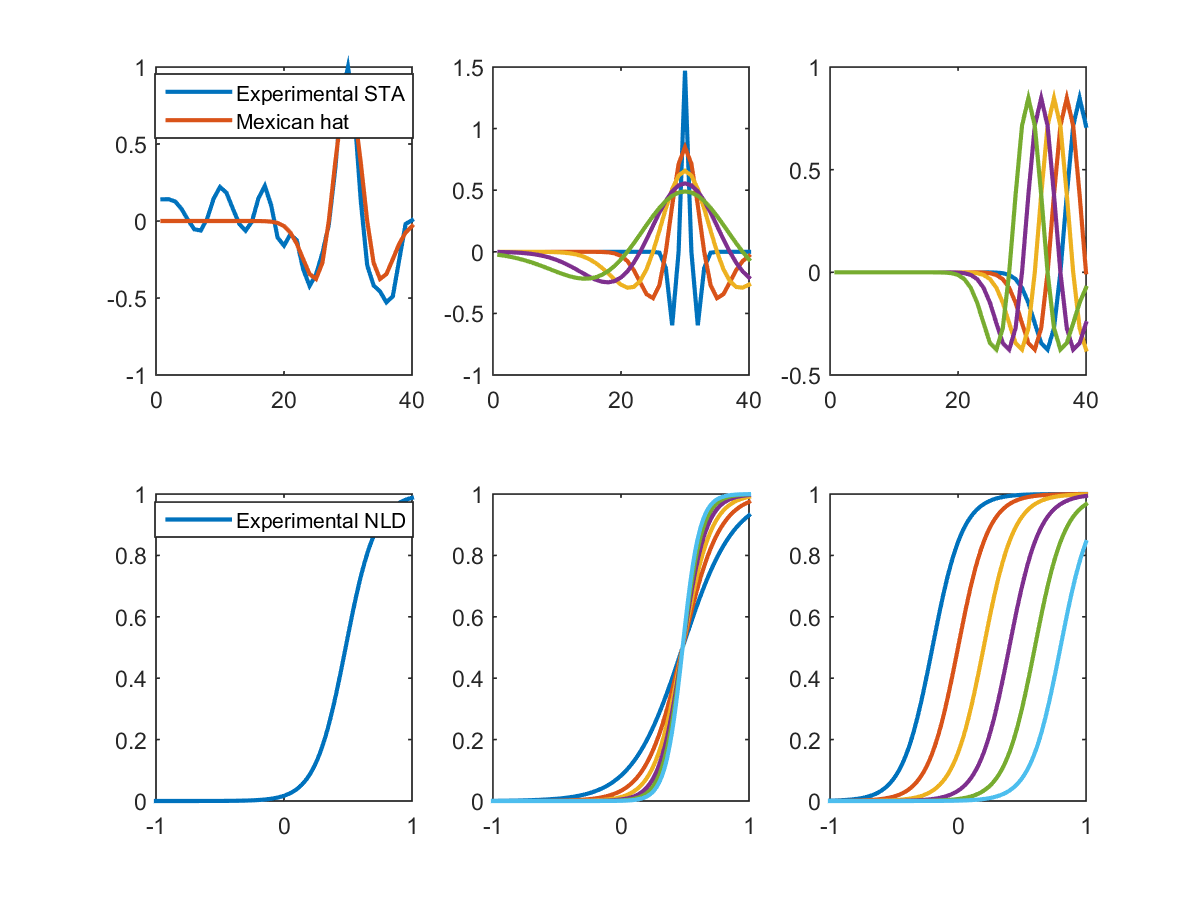
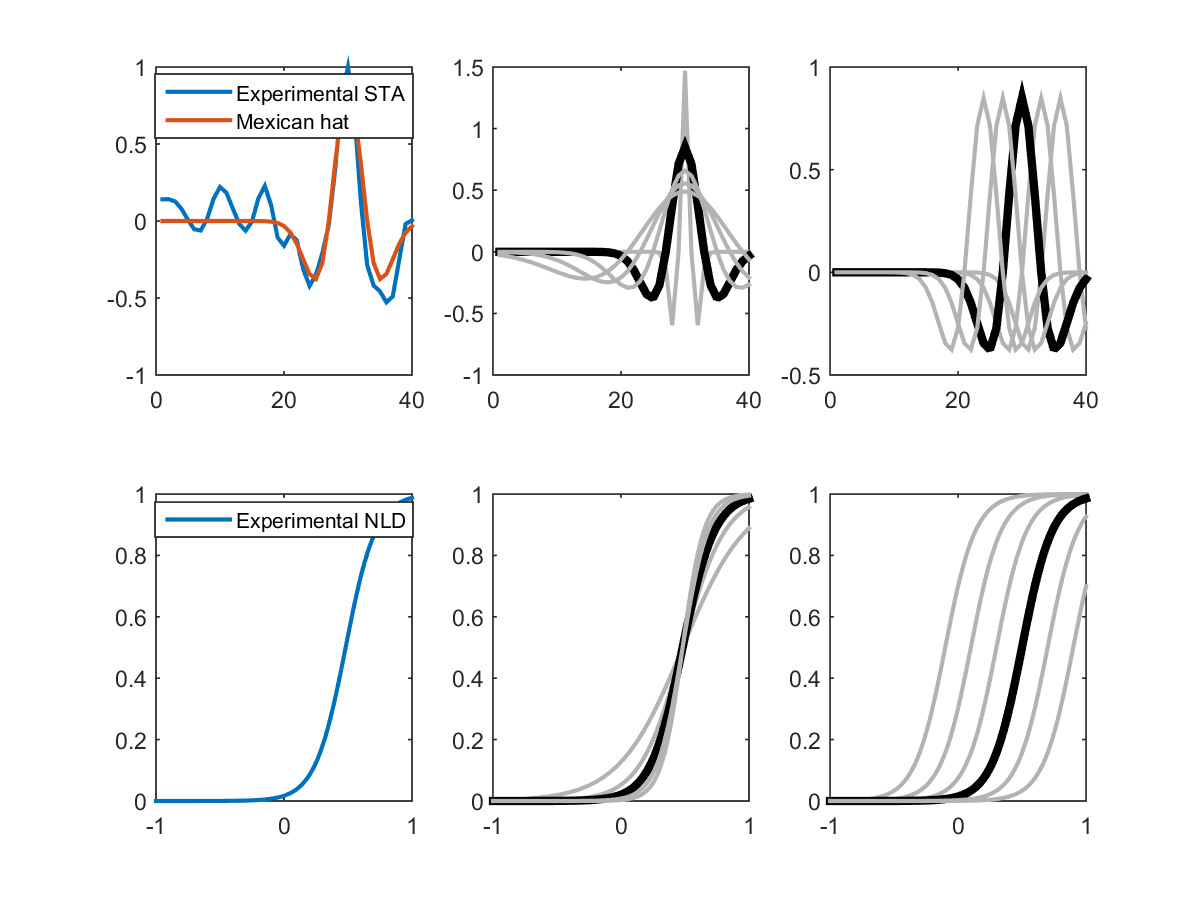
prepare weekend run & sensorLocSSPOC fix

diff --git a/scripts/run_Figure4_variableNLD.m b/scripts/run_Figure4_variableNLD.m
@@ -41,16 +41,21 @@ ind_SSPOCoff = find(bin_SSPOCoff);
 ind_SSPOCon = ind_SSPOCon(2:end);
 ind_SSPOCoff = ind_SSPOCoff(2:end);
 
+% old one 
+% par.NLDshiftList = [-0.2:0.2:0.8];
+% par.NLDsharpnessList = [5:2:15];
 
-par.NLDshiftList = [-0.2:0.2:0.8];
-par.NLDsharpnessList = [5:2:15];
-% n_plots = (length(par.NLDshiftList) + 1) *...
-%             (length(par.NLDsharpnessList) +1); 
+    % will be the new one
+        par.NLDshiftList = [-0.1:0.2:0.9];
+        par.NLDsharpnessList = [4:2:12];
+        
+        % just for now 
+        par.NLDshiftList = [-0.1:0.2:0.9];
+        par.NLDsharpnessList = [4:2:14];
 n_x = (length(par.NLDshiftList) + 1);
 n_y = (length(par.NLDsharpnessList) +1); 
 n_plots = n_x*n_y; 
 
-% col = {'-k','-r'};
 col = {ones(3,1)*0.5,'-r'};
 dotcol = {'.k','.r'}; 
 %% create subplot routine
@@ -60,13 +65,10 @@ mat_2 = mat_1(2:end,2:end);
 vec_3 = sort(mat_2(:));
 vec_v = mat_1(2:end,1);
 
-% color_vec = {'-r','-k'};
 fig2=figure('Position', [100, 100, 1000, 800]);
 for j = 1:length(vec_3)
     subplot(n_y,n_x, vec_3(j))
 
-    
-       
     % plot sspoc on 
         Dat_I = ind_SSPOCoff(j);
         for k2 = 1:size(Datamat,2)
@@ -76,12 +78,9 @@ for j = 1:length(vec_3)
             iters = length(nonzeros(Datamat(Dat_I,k2,:)) );
 %             scatter( ones(iters,1)*k2,nonzeros(Datamat(Dat_I,k2,:)) , dotcol{2})
             hold on
-    
         end
         realNumbers = find(~isnan(meanVec));
         a = shadedErrorBar(realNumbers, meanVec(realNumbers),stdVec(realNumbers),col{1},0.8);
-        
-        
         
    % plot sspoc off
         Dat_I = ind_SSPOCon( j);
@@ -93,67 +92,64 @@ for j = 1:length(vec_3)
             hold on
         end
         realNumbers = find(~isnan(meanVec));
-        plot(realNumbers,meanVec(realNumbers),col{2})
-        
+        plot(realNumbers,meanVec(realNumbers),col{2})    
 %         a = shadedErrorBar(realNumbers, meanVec(realNumbers),stdVec(realNumbers),col{2},0.8);
-     
-%         axis([0,20,0.4,1])
         ax = gca;
         ax.YTick = 0.4:0.2:1;
         axis([0,20,0.4,1])
-%         axis off
-%         axis off
 end
 
 for j = 2:n_x
    subplot(n_y,n_x,j )
-   par.NLDshift = 0;
+   par.NLDshift = 0.5;
    par.NLDsharpness = par.NLDsharpnessList(j-1);
         par.NLD = @(s) 1./(  1 +...
             exp( -(s-par.NLDshift) * par.NLDsharpness)  );
         x = -1:0.02:1;
-        
-   plot(  x,par.NLD(x))
+    if par.NLDsharpness == 8
+        plot(  x,par.NLD(x),'k','LineWidth',2);hold on
+    else
+         plot(  x,par.NLD(x))
+    end
+            
+            
+               
    axis off
 end
-% function [ h ] = drawArrow( x,y,xlimits,ylimits,props )
-% h = annotation('arrow');
-% set(h,'parent', gca, ...
-%     'position', [x(1),y(1),x(2)-x(1),y(2)-y(1)], ...
-%     'HeadLength', 10, 'HeadWidth', 10, 'HeadStyle', 'cback1', ...
-%     props{:} );
 
-% end
-% drawArrow = @(x,y,varargin) quiver( x(1),y(1),x(2)-x(1),y(2)-y(1),0, varargin) 
+
+        x = -1:0.02:1;
+        
 for j = 1:length(vec_v)
    subplot(n_y,n_x,vec_v(j) )
    
-   plot([0,0],[0,1],'k','LineWidth',[2])
+   plot([0.5,0.5],[0,1],'Color',ones(1,3)*0.5,'LineWidth',[2])
    hold on 
    
-%    x1= [0,par.NLDshiftList(j)];
-%    y1 = [0.5,0.5];
-%    drawArrow(x1,y1,[1, 100],[1, 100],{'Color','b','LineWidth',3}); hold on
-%    drawArrow([0,par.NLDshiftList(j)],[0.5,0.5],{'MaxHeadSize',10})
+   quiver( 0.5,0.5,par.NLDshiftList(j)-0.5,0,'m','LineWidth',3,'MaxHeadSize',1.5)
+
+   plot([0,0]+ par.NLDshiftList(j),[0,1],'k','LineWidth',[2])
    
-
-   quiver( 0,0.5,par.NLDshiftList(j),0,'m','LineWidth',3,'MaxHeadSize',1.5)
-
-
-   plot([0,0]+ par.NLDshiftList(j),[0,1] ,'Color',ones(1,3)*0.5,'LineWidth',[2])
    
-%    par.NLDshift = par.NLDshiftList(j);
-%    par.NLDsharpness = par.NLDsharpnessList(1);
-%         par.NLD = @(s) 1./(  1 +...
-%             exp( -(s-par.NLDshift) * par.NLDsharpness)  );
-%         x = -1:0.02:1;
-        
-%    plot(  x,par.NLD(x))
-axis([par.NLDshiftList(1),par.NLDshiftList(end),0,1])
+   
+   
+   par.NLDshift = par.NLDshiftList(j);
+   for k = 1:length(par.NLDsharpnessList)
+       par.NLDsharpness = par.NLDsharpnessList(k);
+            par.NLD = @(s) 1./(  1 +...
+                exp( -(s-par.NLDshift) * par.NLDsharpness)  );  
+        if par.NLDsharpness == 8 && par.NLDshiftList(j) == 0.5
+            plot(  x,par.NLD(x),'k','LineWidth',2);hold on
+        else
+             plot(  x,par.NLD(x),'Color',ones(1,3)*0.7,'LineWidth',0.5);hold on
+        end
+   end
+
+    axis([-1,1,0,1])
    axis off
 end
 
-
+%% 
 
 saveas(fig2,['figs' filesep 'Figure4_variableNLD'], 'png')
 

diff --git a/figs/compareSTAMexicanHat.m b/figs/compareSTAMexicanHat.m
@@ -5,9 +5,9 @@ clc;clear all;close all
 %% 
 
         par.STAwidthList = [1:2:10];
-        par.STAshiftList = [-1:-2:-10];% 
-        par.NLDshiftList = [-0.2:0.2:0.8];
-        par.NLDsharpnessList = [5:2:15];
+        par.STAshiftList = [-4:-3:-16];% 
+        par.NLDshiftList = [-0.1:0.2:0.9];
+        par.NLDsharpnessList = [4:2:12];
 
 fig1 = figure('Position', [100, 100, 1200, 600]);
 
@@ -31,7 +31,7 @@ legend('Experimental STA','Mexican hat','Location','Best')
 % legend('Experimental STA','Mexican hat','Location','NorthEastOutside')
 
 subplot(232)
-        par.STAwidthList = [1:2:10];
+%         par.STAwidthList = [1:2:10];
         par.STAwidth = 3;
         for j= 1:length(par.STAwidthList)
             par.STAwidth = par.STAwidthList(j);
@@ -40,12 +40,16 @@ subplot(232)
                 ./ (sqrt(3*par.STAwidth) *pi^1/4)...
                 .* ( 1-(t-par.STAshift).^2/par.STAwidth^2);
             par.STAfilt = par.STAFunc(t_sta);   
-            plot(par.STAfilt); hold on;
+            if par.STAwidth == 3
+                plot(par.STAfilt,'k','LineWidth',4); hold on;
+            else
+                plot(par.STAfilt,'Color',ones(1,3)*0.7); hold on;
+            end
         end
             
 %         par.STAshiftList = [-1:-2:-10];% +
 subplot(233)
-        par.STAshiftList = [-1:-2:-10];% 
+%         par.STAshiftList = [-4:-3:-16];% 
         par.STAwidth = 3;
         for j= 1:length(par.STAshiftList)
             par.STAshift = par.STAshiftList(j);
@@ -54,7 +58,12 @@ subplot(233)
                 ./ (sqrt(3*par.STAwidth) *pi^1/4)...
                 .* ( 1-(t-par.STAshift).^2/par.STAwidth^2);
             par.STAfilt = par.STAFunc(t_sta);   
-            plot(par.STAfilt); hold on;
+            if par.STAshift == -10
+                display('happened')
+                plot(par.STAfilt,'k','LineWidth',4); hold on;
+            else
+                plot(par.STAfilt,'Color',ones(1,3)*0.7); hold on;
+            end
         end
 %         
 %         
@@ -86,7 +95,12 @@ subplot(235)
             par.NLD = @(s) 1./(  1 +...
                 exp( -(s-par.NLDshift) * par.NLDsharpness)  );
             x = -1:0.02:1;
-        plot(x,par.NLD(x)); hold on
+            if  par.NLDsharpness  == 8
+%                 display('happened')
+                plot(x,par.NLD(x),'k','LineWidth',4); hold on;
+            else
+                plot(x,par.NLD(x),'Color',ones(1,3)*0.7); hold on;
+            end
     end
 %         legend('Experimental NLD','Location','Best')
     % legend('Experimental NLD','Location','NorthEastOutside')
@@ -100,7 +114,12 @@ subplot(236)
             par.NLD = @(s) 1./(  1 +...
                 exp( -(s-par.NLDshift) * par.NLDsharpness)  );
             x = -1:0.02:1;
-        plot(x,par.NLD(x)); hold on
+            if  par.NLDshift  == 0.5
+%                 display('happened')
+                plot(x,par.NLD(x),'k','LineWidth',4); hold on;
+            else
+                plot(x,par.NLD(x),'Color',ones(1,3)*0.7); hold on;
+            end
     end
     
     

diff --git a/functions/setVariableParameters_saveIntermitted.m b/functions/setVariableParameters_saveIntermitted.m
@@ -76,7 +76,7 @@ for j0= 1:nFigures
         par.yIncludeList = [1];
         par.SSPOConList = [0,1];
         par.STAwidthList = [1:2:10];
-        par.STAshiftList = [-11:-2:-20];% 
+        par.STAshiftList = [-4:-3:-16];% 
         par.NLDshiftList = [0.5];
         par.NLDsharpnessList = [10];
         par.wTruncList = 1:30;
@@ -89,8 +89,8 @@ for j0= 1:nFigures
         par.SSPOConList = [0,1];
         par.STAwidthList = [3];
         par.STAshiftList = [-10];% 
-        par.NLDshiftList = [-0.2:0.2:0.8];
-        par.NLDsharpnessList = [5:2:15];
+        par.NLDshiftList = [-0.1:0.2:0.9];
+        par.NLDsharpnessList = [4:2:12];
         par.wTruncList = 1:30;
     end
     

diff --git a/scripts/run_paperAnalysis_saveIntermitted.m b/scripts/run_paperAnalysis_saveIntermitted.m
@@ -18,7 +18,7 @@ par.iter = 10;
 %% Run simulation and Sparse sensor placement for combinations of 4 parameters, over a set number of iterations
 
 tic 
-for j =1:3%varPar_start:varPar_end
+for j =1:length(varParList)
     % adjust parameters for this set of iterations----------------------
     DataMat = zeros(par.rmodes,par.iter);
     SensMat = zeros(par.rmodes,par.rmodes,par.iter);
